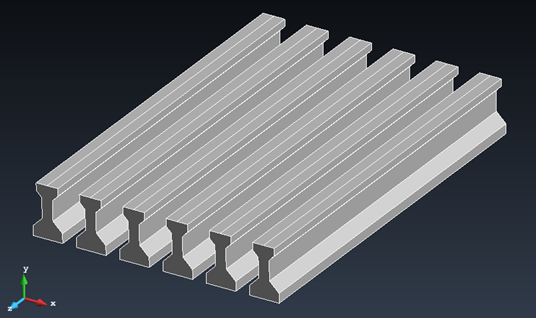
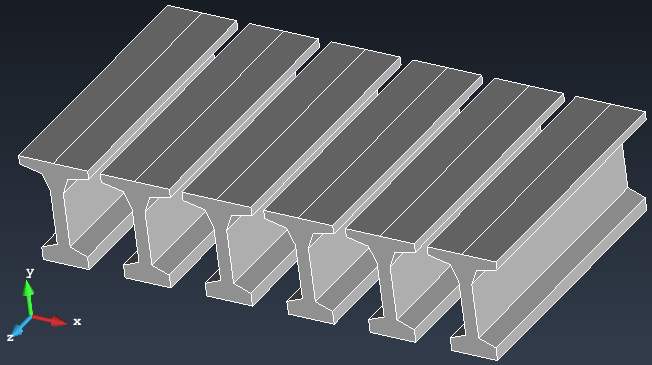
Correcciones terminadas, se agregó el código TCL para dibujar AASHTO TV y TVI. El archivo está listo para usarse

diff --git a/structure.tex b/structure.tex
@@ -178,7 +178,7 @@
 \rhead{} % Right header
 
 % Footers
-\lfoot{\footnotesize \textit{Aula CIMNE UG}} % Left footer
+\lfoot{\footnotesize \textit{Aula CIMNE-UG}} % Left footer
 \cfoot{\footnotesize \textit{Luis G. Yáñez Rodríguez}} % Center footer
 \rfoot{\footnotesize Página \thepage\ de \pageref{LastPage}} % Right footer, "Page 1 of 2"
 
